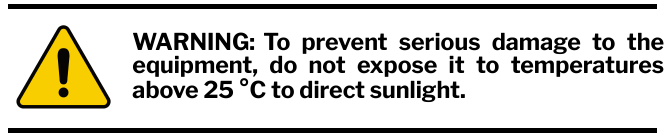
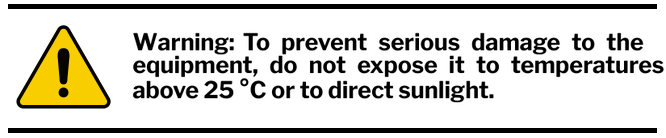
V27

diff --git a/index.html b/index.html
@@ -206,7 +206,7 @@
               <div class="pi-row pi-light"><span>HS Code</span><span>9023.00.00.00</span></div>
             </section>
 
-            <img class="warning-notice" src="./assets/warning-notice.png" alt="WARNING: To prevent serious damage to the equipment, do not expose it to temperatures above 25 °C to direct sunlight." />
+            <img class="warning-notice" src="./assets/warning-notice.png" alt="Warning: To prevent serious damage to the equipment, do not expose it to temperatures above 25 °C or to direct sunlight." />
 
             <footer class="document-footer footer-page-one">
               <strong>CUBO MAKERS S.A.C</strong>
